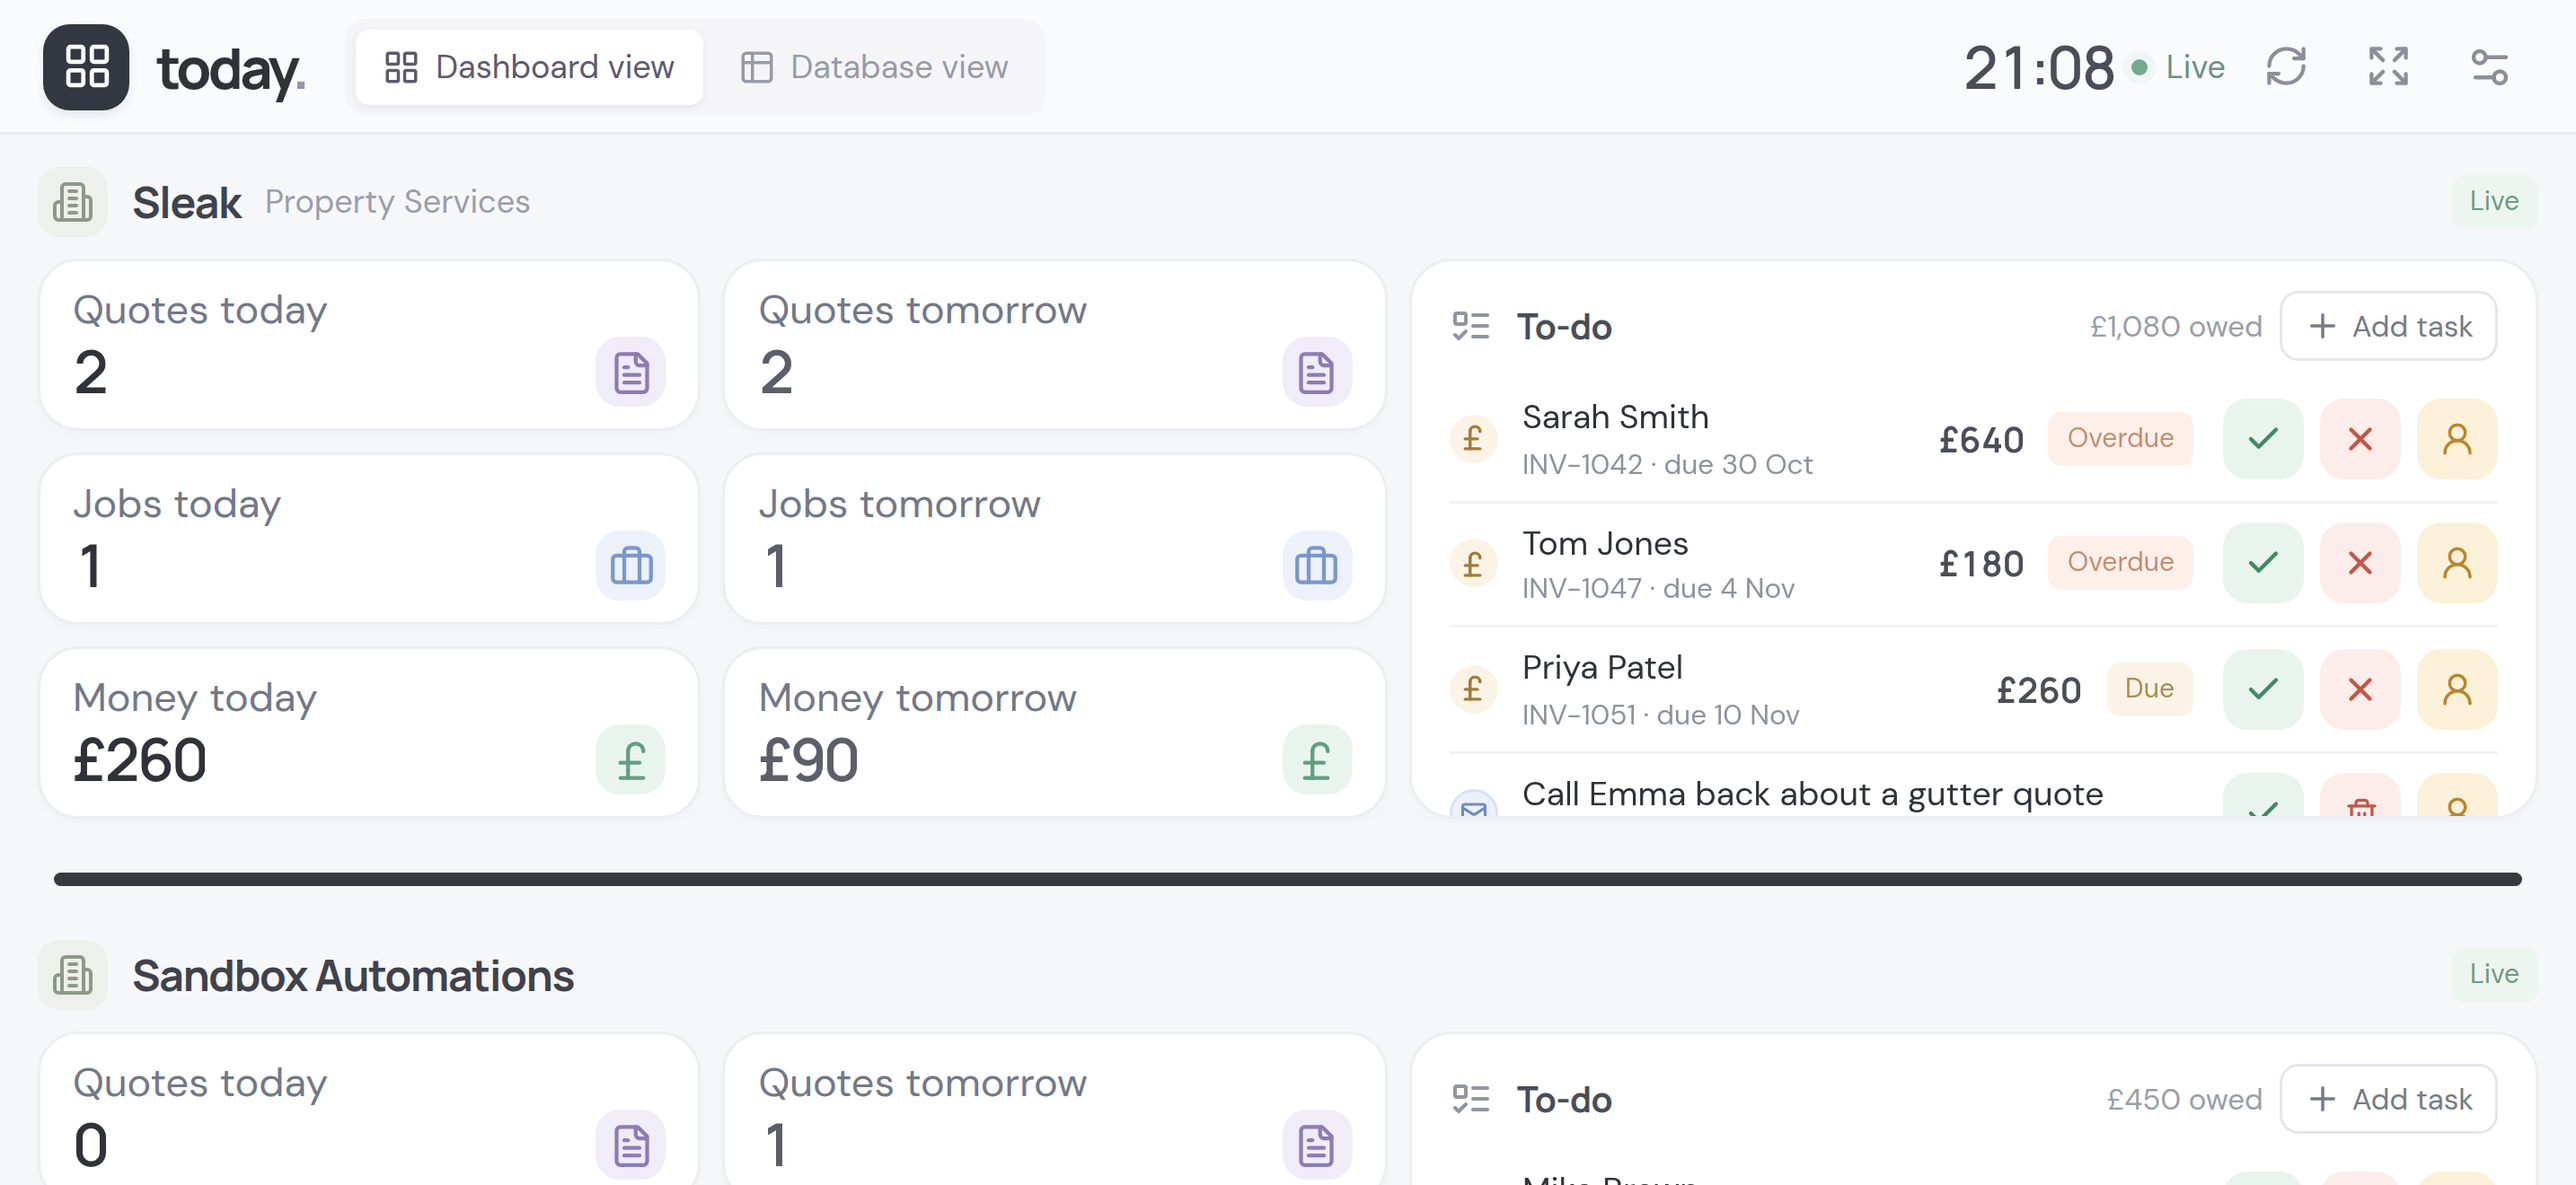
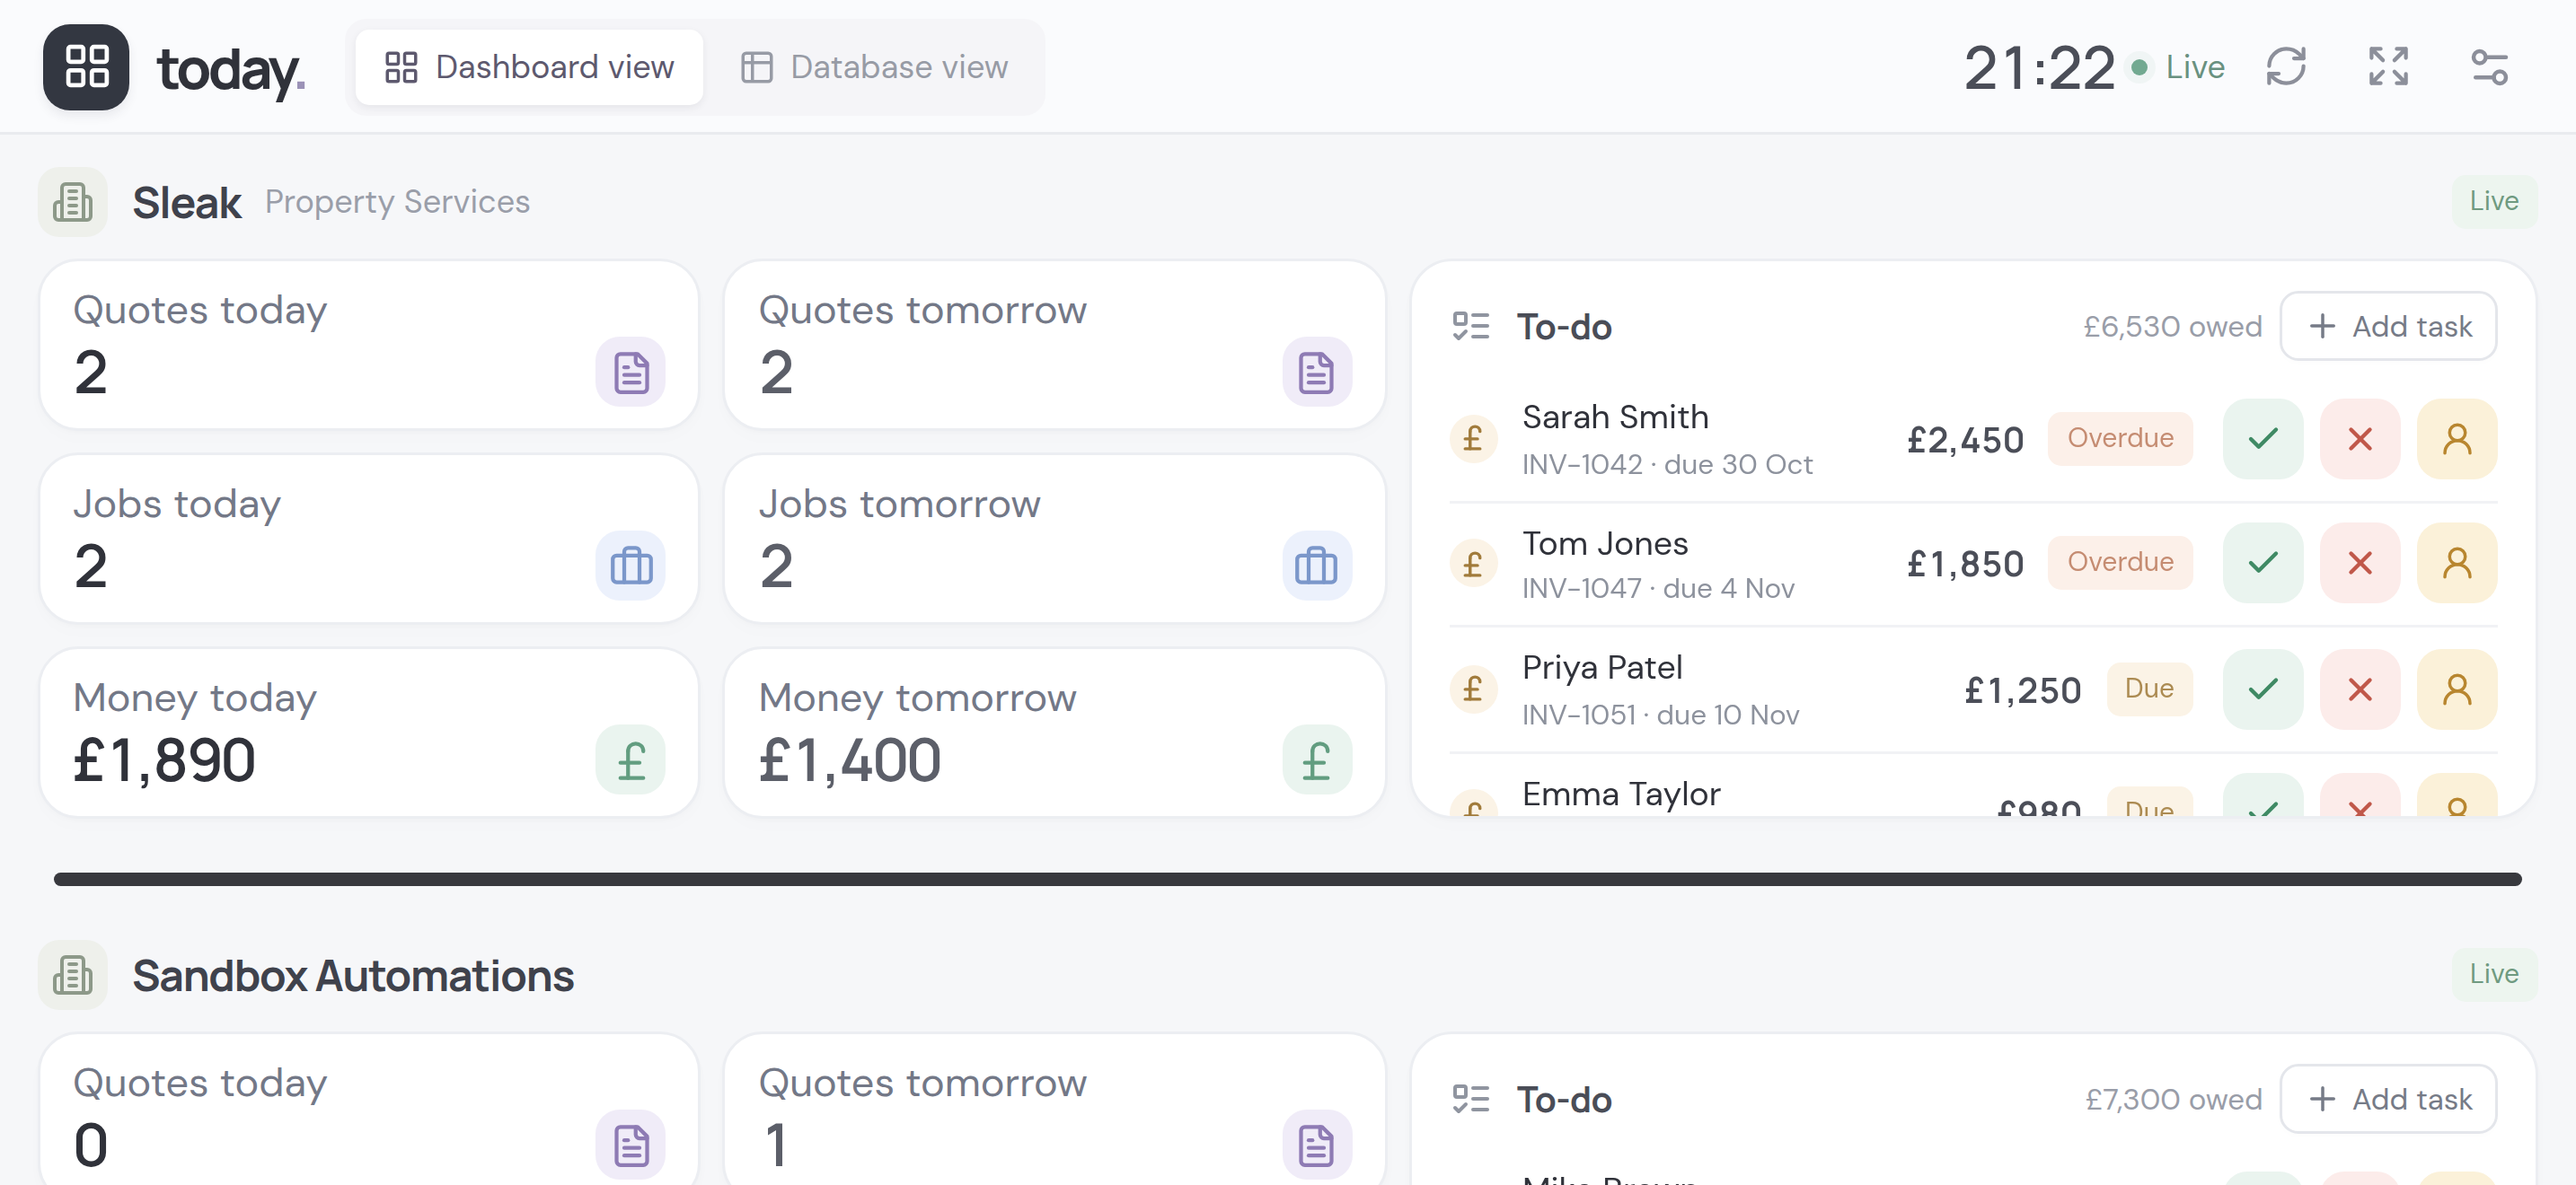
Add GoHighLevel integration and KPI detail, refresh cycle, edge cases; fuller demo screenshots

diff --git a/README.md b/README.md
@@ -2,7 +2,9 @@
 
 A live dashboard I designed and run every day to manage two small businesses and my
 personal life from one screen: a TV on the wall, my phone and my laptop, all updating at
-once.
+once. Its business KPIs come straight from **GoHighLevel (GHL)**, the CRM both businesses
+run on, through its REST API. That covers bookings, pipeline values, invoices and
+customer messages across two separate sub-accounts.
 
 ![The dashboard on a 1920 × 1080 TV](screenshots/tv-dashboard.png)
 
@@ -27,8 +29,9 @@ and messages arrive all day. Answering simple questions meant checking several a
 
 One screen that answers all of that at a glance and lets me act on it straight away.
 
-- **Two businesses side by side.** Each has six metric bubbles (quotes, jobs and money for
-  today and tomorrow), worked out from GoHighLevel service bookings and opportunity values.
+- **Two businesses side by side.** Each has six KPI bubbles (quotes, jobs and money for
+  today and tomorrow), pulled live from that business's GoHighLevel sub-account: service
+  bookings for the counts, and pipeline opportunity values for the money.
 - **One to-do list per business.** Unpaid invoices sit alongside ordinary tasks, and an
   invoice can be marked paid or voided in one tap. The server re-reads the invoice first
   and asks for confirmation, so a stale screen can never pay the wrong amount.
@@ -52,6 +55,60 @@ One screen that answers all of that at a glance and lets me act on it straight a
 | ---------------------------------------------------------------------------------- | ------------------------------------------------------------------------------------ |
 | <img src="screenshots/phone-portrait.png" width="260" alt="Portrait phone layout"> | <img src="screenshots/phone-landscape.png" width="520" alt="Landscape phone layout"> |
 
+## GoHighLevel integration
+
+Both businesses run on GoHighLevel, each in its own sub-account. The dashboard talks to
+both through the GHL REST API with a private integration token per sub-account. A token
+only works for its own sub-account, so the two are never mixed. Tokens stay on the
+server, and a backup token is tried automatically if the main one is ever rejected.
+
+| GHL area                              | What the dashboard does with it                                                                                                                                                                                                                                                      |
+| ------------------------------------- | ------------------------------------------------------------------------------------------------------------------------------------------------------------------------------------------------------------------------------------------------------------------------------------ |
+| **Calendars and services**            | Reads every booking for my user in both sub-accounts. Each bookable service (Free Quotation, Exterior Painting, CRM Setup…) is its own calendar, and GHL titles a booking `Name - Address - Service - Slot length`, which the dashboard parses into a short title and a detail line. |
+| **Blocked slots**                     | Shows time I've blocked off, but only when it isn't a copy. GHL mirrors my Google Calendar and the other sub-account's bookings into blocked slots, so most of them are duplicates.                                                                                                  |
+| **Opportunities**                     | Looks up each job customer's opportunity in the job pipeline and uses its value for the money KPIs.                                                                                                                                                                                  |
+| **Invoices**                          | Lists unpaid invoices (not paid, void or draft, with an amount due). One tap records a bank-transfer payment for the full amount, or voids it.                                                                                                                                       |
+| **Users, contacts and conversations** | Hand-offs find the team member's GHL user, then their contact, and send the SMS from the sub-account's own business number, so replies land back in GHL. The hourly AI scan reads new inbound SMS, email, calls and chats to create to-dos.                                          |
+
+### How the KPIs are calculated
+
+| KPI                     | Pulled from           | Rule                                                                                                                        |
+| ----------------------- | --------------------- | --------------------------------------------------------------------------------------------------------------------------- |
+| Quotes today / tomorrow | GHL calendar bookings | Live bookings on a _Free Quotation_ or _Paid Quotation_ service                                                             |
+| Jobs today / tomorrow   | GHL calendar bookings | Live bookings on any other service                                                                                          |
+| Money today / tomorrow  | GHL opportunities     | Sum of the job customers' opportunity values in the job pipeline, counted once per customer even with two bookings that day |
+| Owed (per to-do list)   | GHL invoices          | Sum of the amount due on every unpaid invoice                                                                               |
+
+Cancelled bookings and blocked time never count. The rules match on the service name
+rather than one calendar ID, because some services, such as Free Quotation, exist as
+several calendars with different slot lengths.
+
+### Every 15 seconds
+
+1. The server fetches both sub-accounts' bookings and blocked slots and my Google Calendar
+   in parallel, across a window that always covers this week and tomorrow.
+2. Opportunity values are looked up for job customers (cached for a minute, since they
+   change rarely), and unpaid invoices are listed for both sub-accounts.
+3. Everything is normalised into one event shape, and Google copies of GHL bookings are
+   dropped.
+4. Any invoice that disappeared since the last refresh is checked, and recorded in the
+   history as paid, voided or closed in GHL.
+5. One snapshot goes out to every screen over the WebSocket. If one source fails, the
+   others still update, and that source shows a "sync issue" badge instead of blanking
+   the screen.
+
+### Edge cases handled
+
+- **A voided invoice returns "not found" from GHL**, so a 404 for an invoice that was on
+  the list is recorded as voided, not as an error.
+- **Stale screens can't act on old data:** paying or voiding re-reads the invoice from GHL
+  first, refuses if it's already closed, and always records the current amount due rather
+  than whatever the screen showed.
+- **Duplicates across systems:** a booking appears once, in its business's colour, even
+  though GHL and Google each hold copies of the other.
+- **Browsing other weeks** fetches that range on demand, with a short cache so flicking
+  back and forth doesn't hit the API.
+
 ## Architecture
 
 ```mermaid
@@ -73,7 +130,11 @@ flowchart LR
 ```
 
 **Stack:** React 19, Vite, Node 24, Express 5, WebSockets, systemd, Cloudflare Tunnel,
-restic and rclone, with the GoHighLevel and Google Calendar, Gmail and Drive APIs.
+restic and rclone.
+
+**Integrations:** the GoHighLevel API (calendars, opportunities, invoices, users, contacts and
+conversations, across two sub-accounts), Google Calendar, Gmail (read-only, for the AI scan),
+Google Drive (backups) and an AI agent webhook for hand-offs.
 
 ### Decisions worth explaining
 
@@ -177,6 +238,7 @@ The full history is in [CHANGELOG.md](CHANGELOG.md). In short:
 
 | Version | Date        | Highlights                                                                                                  |
 | ------- | ----------- | ----------------------------------------------------------------------------------------------------------- |
+| 1.3.1   | 5 Nov 2026  | Large amounts fit the TV's KPI bubbles; fuller demo data                                                    |
 | 1.3.0   | 5 Nov 2026  | Demo mode, documentation, dead-code clean-up                                                                |
 | 1.2.0   | 3 Nov 2026  | Permanent domain, device list, brute-force blocking, 10-minute off-site snapshots, tested disaster recovery |
 | 1.1.0   | 1 Nov 2026  | Native iPhone layouts for portrait and landscape                                                            |

diff --git a/CHANGELOG.md b/CHANGELOG.md
@@ -3,6 +3,18 @@
 All notable changes to the Live TV Dashboard. Dates are when each change went live.
 The format follows [Keep a Changelog](https://keepachangelog.com/en/1.1.0/).
 
+## [1.3.1] – 2026-11-05
+
+### Fixed
+
+- Four-figure amounts such as £1,890 were cut off ("£1,8…") in the TV's money bubbles.
+  Long values now shrink to fit the bubble on the TV; phones are unchanged.
+
+### Changed
+
+- Demo mode has a fuller week: more personal calendar events and to-dos, a second job on
+  busy days, and realistic job and invoice values.
+
 ## [1.3.0] – 2026-11-05
 
 Portfolio clean-up.
